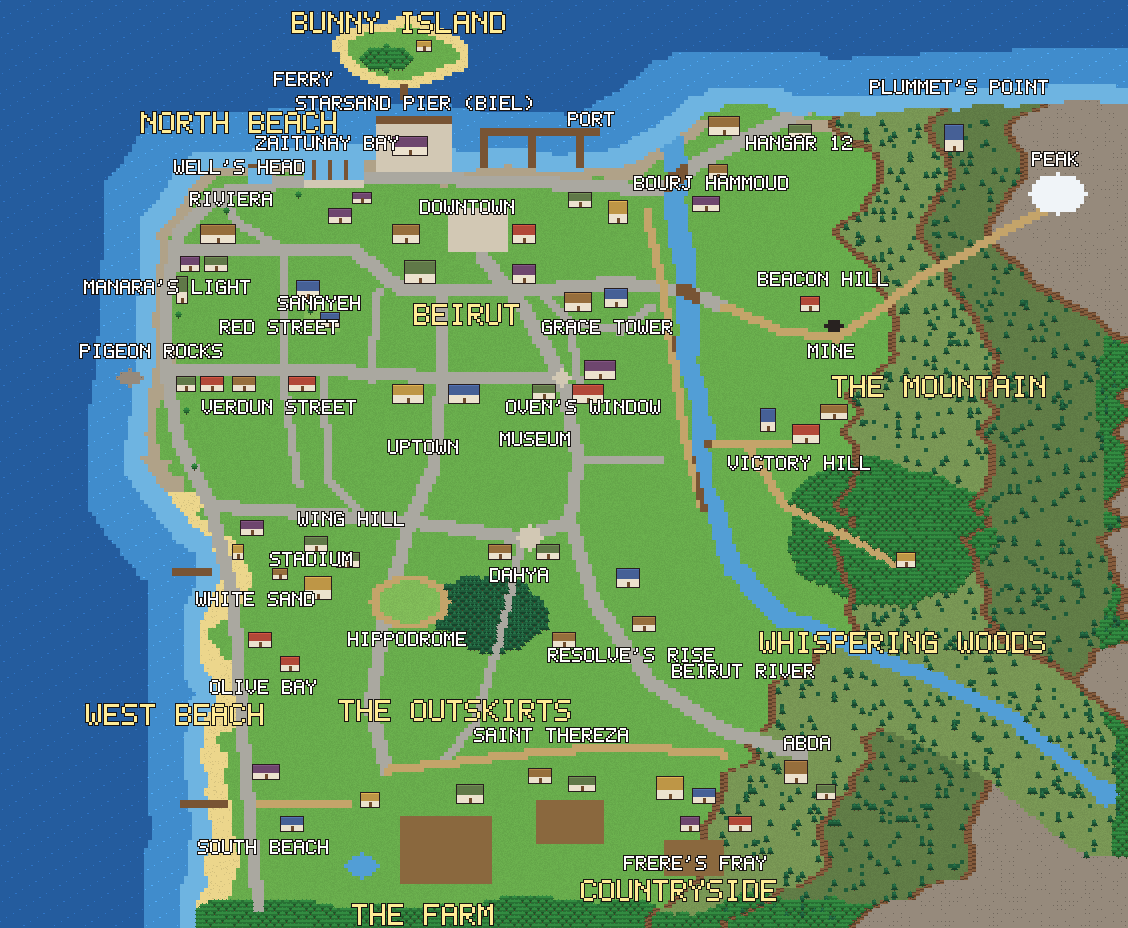
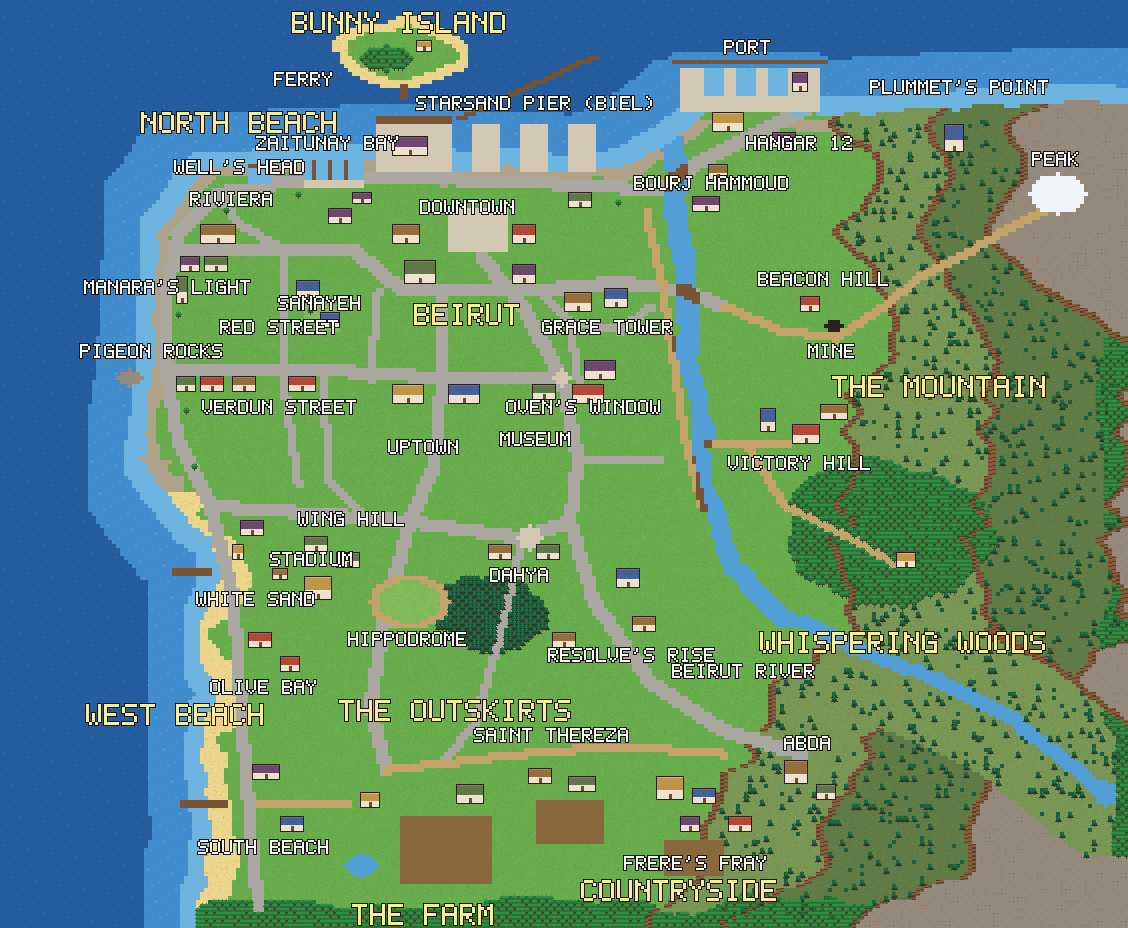
Blueprint: Starsand Pier takes the port's place north of downtown, the port moves up above Hangar 12
Starsand Pier: quays built out into the sea with basins between them, and Biel's long breakwater angling north-east;
the port (basins, a breakwater, the silos) on land built out above Hangar 12, as on Beirut's real waterfront.

Changed region(s): [[0.2482, 0.0312, 0.7447, 0.1875], [0.5275, 0.2188, 0.5585, 0.25]]

diff --git a/tools/map/blueprint.js b/tools/map/blueprint.js
@@ -177,8 +177,14 @@ disc(110, 64, 2, 2, "plaza");                      // the Museum crossing
 
 // ---- the port (Starsand's piers) and the West Beach's piers; Pigeon Rocks offshore (the sea arch)
 const pier = (x, y, len, dx, dy) => { for(let k = 0; k < len; k++) for(let w = 0; w <= 1; w++) set(x + dx * k + (dy ? w : 0) + M, y + dy * k + (dx ? w : 0) + M, "pier"); };
-// The port: its basins and breakwater (east of Biel)
-pier(90, 11, 9, 0, -1); pier(102, 11, 9, 0, -1); pier(114, 11, 9, 0, -1); pier(90, 2, 30, 1, 0);
+// Starsand Pier, east of Biel (where Beirut's port basins are): quays built out into the sea with basins between them,
+// and Biel's long stone breakwater angling out to the north-east
+for(const qx of [88, 100, 112]) rect(qx, 1, qx + 6, 12, "plaza");
+for(let k = 0; k <= 34; k++) for(let w = 0; w <= 1; w++) set(84 + k + w + M, -1 - Math.round(k * 0.45) + M, "pier");
+// The port, moved up the coast above Hangar 12: land built out into the sea, three basins, a breakwater, the silos
+rect(140, -13, 174, -3, "plaza");
+for(const bx of [146, 154, 162]) rect(bx, -13, bx + 4, -7, "shallow");
+for(let x = 138; x <= 176; x++) set(x + M, -15 + M, "pier");
 // Biel: land built out into the sea north of downtown, a big hall on it, a stone pier along its north edge (Starsand Pier)
 rect(64, 1, 82, 12, "plaza");
 for(let x = 64; x <= 82; x++){ set(x + M, 0 + M, "pier"); set(x + M, -1 + M, "pier"); }
@@ -226,12 +232,12 @@ b(44, 40, 6, 5, "Goldcrest"); b(68, 26, 7, 5, "Tavern"); b(70, 38, 8, 6, "Bank")
 b(108, 40, 7, 5, "Smithy"); b(118, 40, 6, 5, "Whitlow");
 b(22, 62, 6, 4, "Bakery"); b(30, 62, 6, 4, "Flowers"); b(44, 62, 7, 4, "Furniture"); b(50, 48, 5, 4, "Cafe");
 b(68, 66, 8, 5, "Hospital"); b(78, 66, 8, 5, "Library"); b(113, 66, 8, 5, "Museum");
-b(68, 4, 9, 5, "Biel hall"); b(122, 20, 5, 6, "Silos"); b(58, 18, 5, 3, "Marina club");
+b(68, 4, 9, 5, "Biel hall"); b(168, -12, 4, 5, "Silos"); b(58, 18, 5, 3, "Marina club");
 b(142, 20, 7, 4, "Bourj Hammoud market"); b(46, 114, 7, 6, "Stadium");
 b(108, 62, 6, 4, "Quill"); b(116, 62, 8, 5, "Meadowlark");
 // North Beach (the lighthouse on the peninsula's corner, the port, Hangar 12 past the river mouth)
 b(12, 30, 3, 7, "Lighthouse"); b(56, 18, 6, 4, "Fish market"); b(112, 18, 6, 4, "Ferry");
-b(150, 0, 8, 5, "Hangar 12"); b(160, -6, 6, 4, "Tinker"); b(144, 8, 5, 4, "Brassbolt");
+b(150, 0, 8, 5, "Hangar 12"); b(162, 2, 6, 4, "Tinker"); b(144, 8, 5, 4, "Brassbolt");
 // West Beach
 b(16, 66, 5, 4, "Gullwater"); b(30, 100, 6, 4, "Beach bar"); b(26, 108, 3, 4, "Lifeguard"); b(38, 112, 4, 3, "Shack");
 b(32, 128, 6, 4, "Olive press"); b(40, 134, 5, 4, "Saba"); b(30, 164, 7, 4, "Boatyard"); b(40, 174, 6, 4, "Saltwhistle");
@@ -361,7 +367,7 @@ dist("Hippodrome", 72, 128); dist("Stadium", 48, 108); dist("Museum", 104, 78); 
 dist("Bourj Hammoud", 148, 14);
 dist("Well's Head", 30, 10); dist("Red Street", 40, 50); dist("Downtown", 87, 20); dist("Grace Tower", 122, 50);
 dist("Verdun Street", 40, 70); dist("Uptown", 76, 80); dist("Oven's Window", 116, 70);
-dist("Manara's Light", 12, 40); dist("Starsand Pier (Biel)", 74, -6); dist("Port", 118, -2); dist("Zaitunay Bay", 52, 4); dist("Hangar 12", 170, 4);
+dist("Manara's Light", 12, 40); dist("Starsand Pier (Biel)", 104, -6); dist("Port", 157, -20); dist("Zaitunay Bay", 52, 4); dist("Hangar 12", 170, 4);
 dist("Pigeon Rocks", 8, 56); dist("White Sand", 34, 118); dist("Olive Bay", 36, 140); dist("South Beach", 36, 180);
 dist("Plummet's Point", 210, -10); dist("Beacon Hill", 176, 38); dist("Victory Hill", 170, 84);
 dist("Wing Hill", 58, 98); dist("Dahya", 100, 112); dist("Resolve's Rise", 128, 132);
